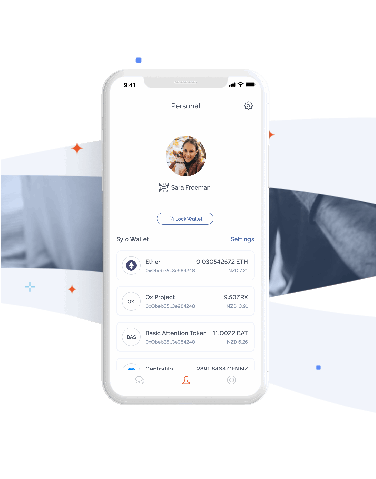
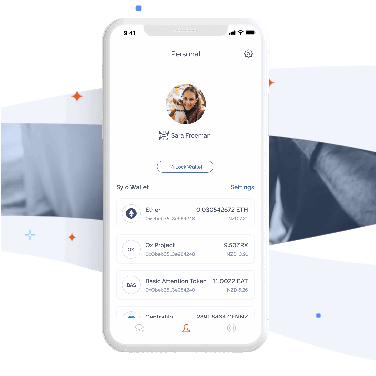
difference, home page image fixed, button hover image added.

diff --git a/src/components/Home/StayArea/index.tsx b/src/components/Home/StayArea/index.tsx
@@ -1,9 +1,14 @@
 import * as React from 'react'
 import { ResponsiveImage, ResponsiveImageSize } from 'react-responsive-image'
+import HoverImage from 'react-hover-image'
 
 import './styles.scss'
-import home_get_the_app from '../../../images/home_get_the_app.png'
-import watch_the_video_btn from '../../../images/watch_the_video_btn.png'
+import get_the_app_home_normal from '../../../images/get_the_app_home_normal.png'
+import get_the_app_home_hover from '../../../images/get_the_app_home_hover.png'
+
+import watch_the_video_btn_normal from '../../../images/watch_the_video_btn_normal.png'
+import watch_the_video_btn_hover from '../../../images/watch_the_video_btn_hover.png'
+
 import home_top_stay_bg_mobile from '../../../images/home_top_stay_bg_mobile.png'
 import home_top_stay_bg_landscape from '../../../images/home_top_stay_bg_landscape.png'
 
@@ -32,8 +37,14 @@ const StayArea: React.StatelessComponent<{}> = () => {
           the status quo – we’re turning it on its head.
         </div>
         <div className="button_area">
-          <img src={home_get_the_app} />
-          <img src={watch_the_video_btn} />
+          <HoverImage
+            src={get_the_app_home_normal}
+            hoverSrc={get_the_app_home_hover}
+          />
+          <HoverImage
+            src={watch_the_video_btn_normal}
+            hoverSrc={watch_the_video_btn_hover}
+          />
         </div>
       </div>
       <div className="landscape_case">
@@ -49,8 +60,14 @@ const StayArea: React.StatelessComponent<{}> = () => {
             the status quo – we’re turning it on its head.
           </div>
           <div className="button_area">
-            <img src={home_get_the_app} />
-            <img src={watch_the_video_btn} />
+            <HoverImage
+              src={get_the_app_home_normal}
+              hoverSrc={get_the_app_home_hover}
+            />
+            <HoverImage
+              src={watch_the_video_btn_normal}
+              hoverSrc={watch_the_video_btn_hover}
+            />
           </div>
         </div>
       </div>

diff --git a/src/components/TheDifferencePage/index.tsx b/src/components/TheDifferencePage/index.tsx
@@ -1,11 +1,13 @@
 import * as React from 'react'
 import { ResponsiveImage, ResponsiveImageSize } from 'react-responsive-image'
+import HoverImage from 'react-hover-image'
 
 import './styles.scss'
 
+import get_the_app_btn_normal from '../../images/get_the_app_btn_normal.png'
+import get_the_app_btn_hover from '../../images/get_the_app_btn_hover.png'
 import difference_top_bg from '../../images/difference_top_bg.png'
 import peer_to_peer from '../../images/peer_to_peer.png'
-import get_app_btn from '../../images/get_app_btn.png'
 import bullet from '../../images/bullet.png'
 
 import storage_mobile from '../../images/storage_mobile.png'
@@ -139,7 +141,10 @@ const TheDifferencePage: React.StatelessComponent<{}> = () => {
                 Storing data in Sylo Storage
               </div>
             </div>
-            <img src={get_app_btn} />
+            <HoverImage
+              src={get_the_app_btn_normal}
+              hoverSrc={get_the_app_btn_hover}
+            />
           </div>
         </div>
         <ResponsiveImage className="token_img">

diff --git a/src/components/Home/HomePage/index.tsx b/src/components/Home/HomePage/index.tsx
@@ -28,12 +28,15 @@ const HomePage: React.StatelessComponent<{}> = () => {
       <div className="watching_area">
         <div className="text">
           <div className="heading">
-            Type like <span className="color_red">no</span> one’s watching...
+            Type like <span className="color_red">no </span>
+            one’s
+            <br /> watching...
           </div>
           <div className="content">
-            Because no one is. Communicate with the freedom you have when you
-            are talking face to face, safe in the knowledge that your
-            communications will remain confidential.
+            Because no one is. Communicate with the freedom
+            <br /> you have when you are talking face to face, safe in
+            <br /> the knowledge that your communications will remain
+            <br /> confidential.
           </div>
         </div>
         <ResponsiveImage className="watching_img">

diff --git a/src/components/TheDifferencePage/styles.scss b/src/components/TheDifferencePage/styles.scss
@@ -217,14 +217,14 @@
         text-align: left;
         margin-bottom: 47px;
         .header {
-          margin: 0 10% 0 30%;
+          margin: 0 20% 0 20%;
 
           font-size: 40px;
           line-height: 47px;
           margin-bottom: 17px;
         }
         .content {
-          margin: 0 10% 0 30%;
+          margin: 0 20% 0 20%;
           font-size: 15px;
           font-weight: 500;
           line-height: 28px;
@@ -233,9 +233,8 @@
       .storage_img {
         width: 50%;
         img {
-          width: 70%;
-          margin: 0 10%;
-          box-shadow: 12px 12px 2px 1px rgba(0, 0, 0, 0.2);
+          width: 100%;
+          // margin-left: 20%;
         }
       }
     }

diff --git a/src/components/Home/HomePage/styles.scss b/src/components/Home/HomePage/styles.scss
@@ -163,14 +163,23 @@
         width: 50%;
         .heading,
         .content {
-          margin: 0 15% 0 20%;
+          margin-left: 10%;
+        }
+        .heading {
+          font-size: 40px;
+          line-height: 56px;
+          margin-bottom: 15px;
+        }
+        .content {
+          font-size: 15px;
+          font-weight: 500;
+          line-height: 28px;
         }
       }
       .watching_img {
         width: 50%;
         order: 1;
         img {
-          margin-right: 20%;
         }
       }
     }

diff --git a/src/components/Home/CommunicationArea/styles.scss b/src/components/Home/CommunicationArea/styles.scss
@@ -24,7 +24,7 @@
       padding: 28px 0;
       border: 1px solid #fefefe;
       border-radius: 15px;
-      box-shadow: 3px 3px 5px 6px #eee;
+      box-shadow: -2px -3px 25px 2px #ddd;
       transition: 0.5s;
       &:hover {
         color: white;

diff --git a/src/components/Landing/LandingBottom/styles.scss b/src/components/Landing/LandingBottom/styles.scss
@@ -99,7 +99,6 @@
         padding: 3.5% 0;
         border: 1px solid #fefefe;
         border-radius: 15px;
-        box-shadow: 3px 3px -4px 6px #eee;
         transition: 0.5s;
         .icon_border {
           width: 46px;

diff --git a/src/components/Home/StayArea/styles.scss b/src/components/Home/StayArea/styles.scss
@@ -42,9 +42,6 @@
       img {
         display: block;
         margin: 0 auto;
-        &:hover {
-          filter: hue-rotate(40deg);
-        }
       }
     }
   }
